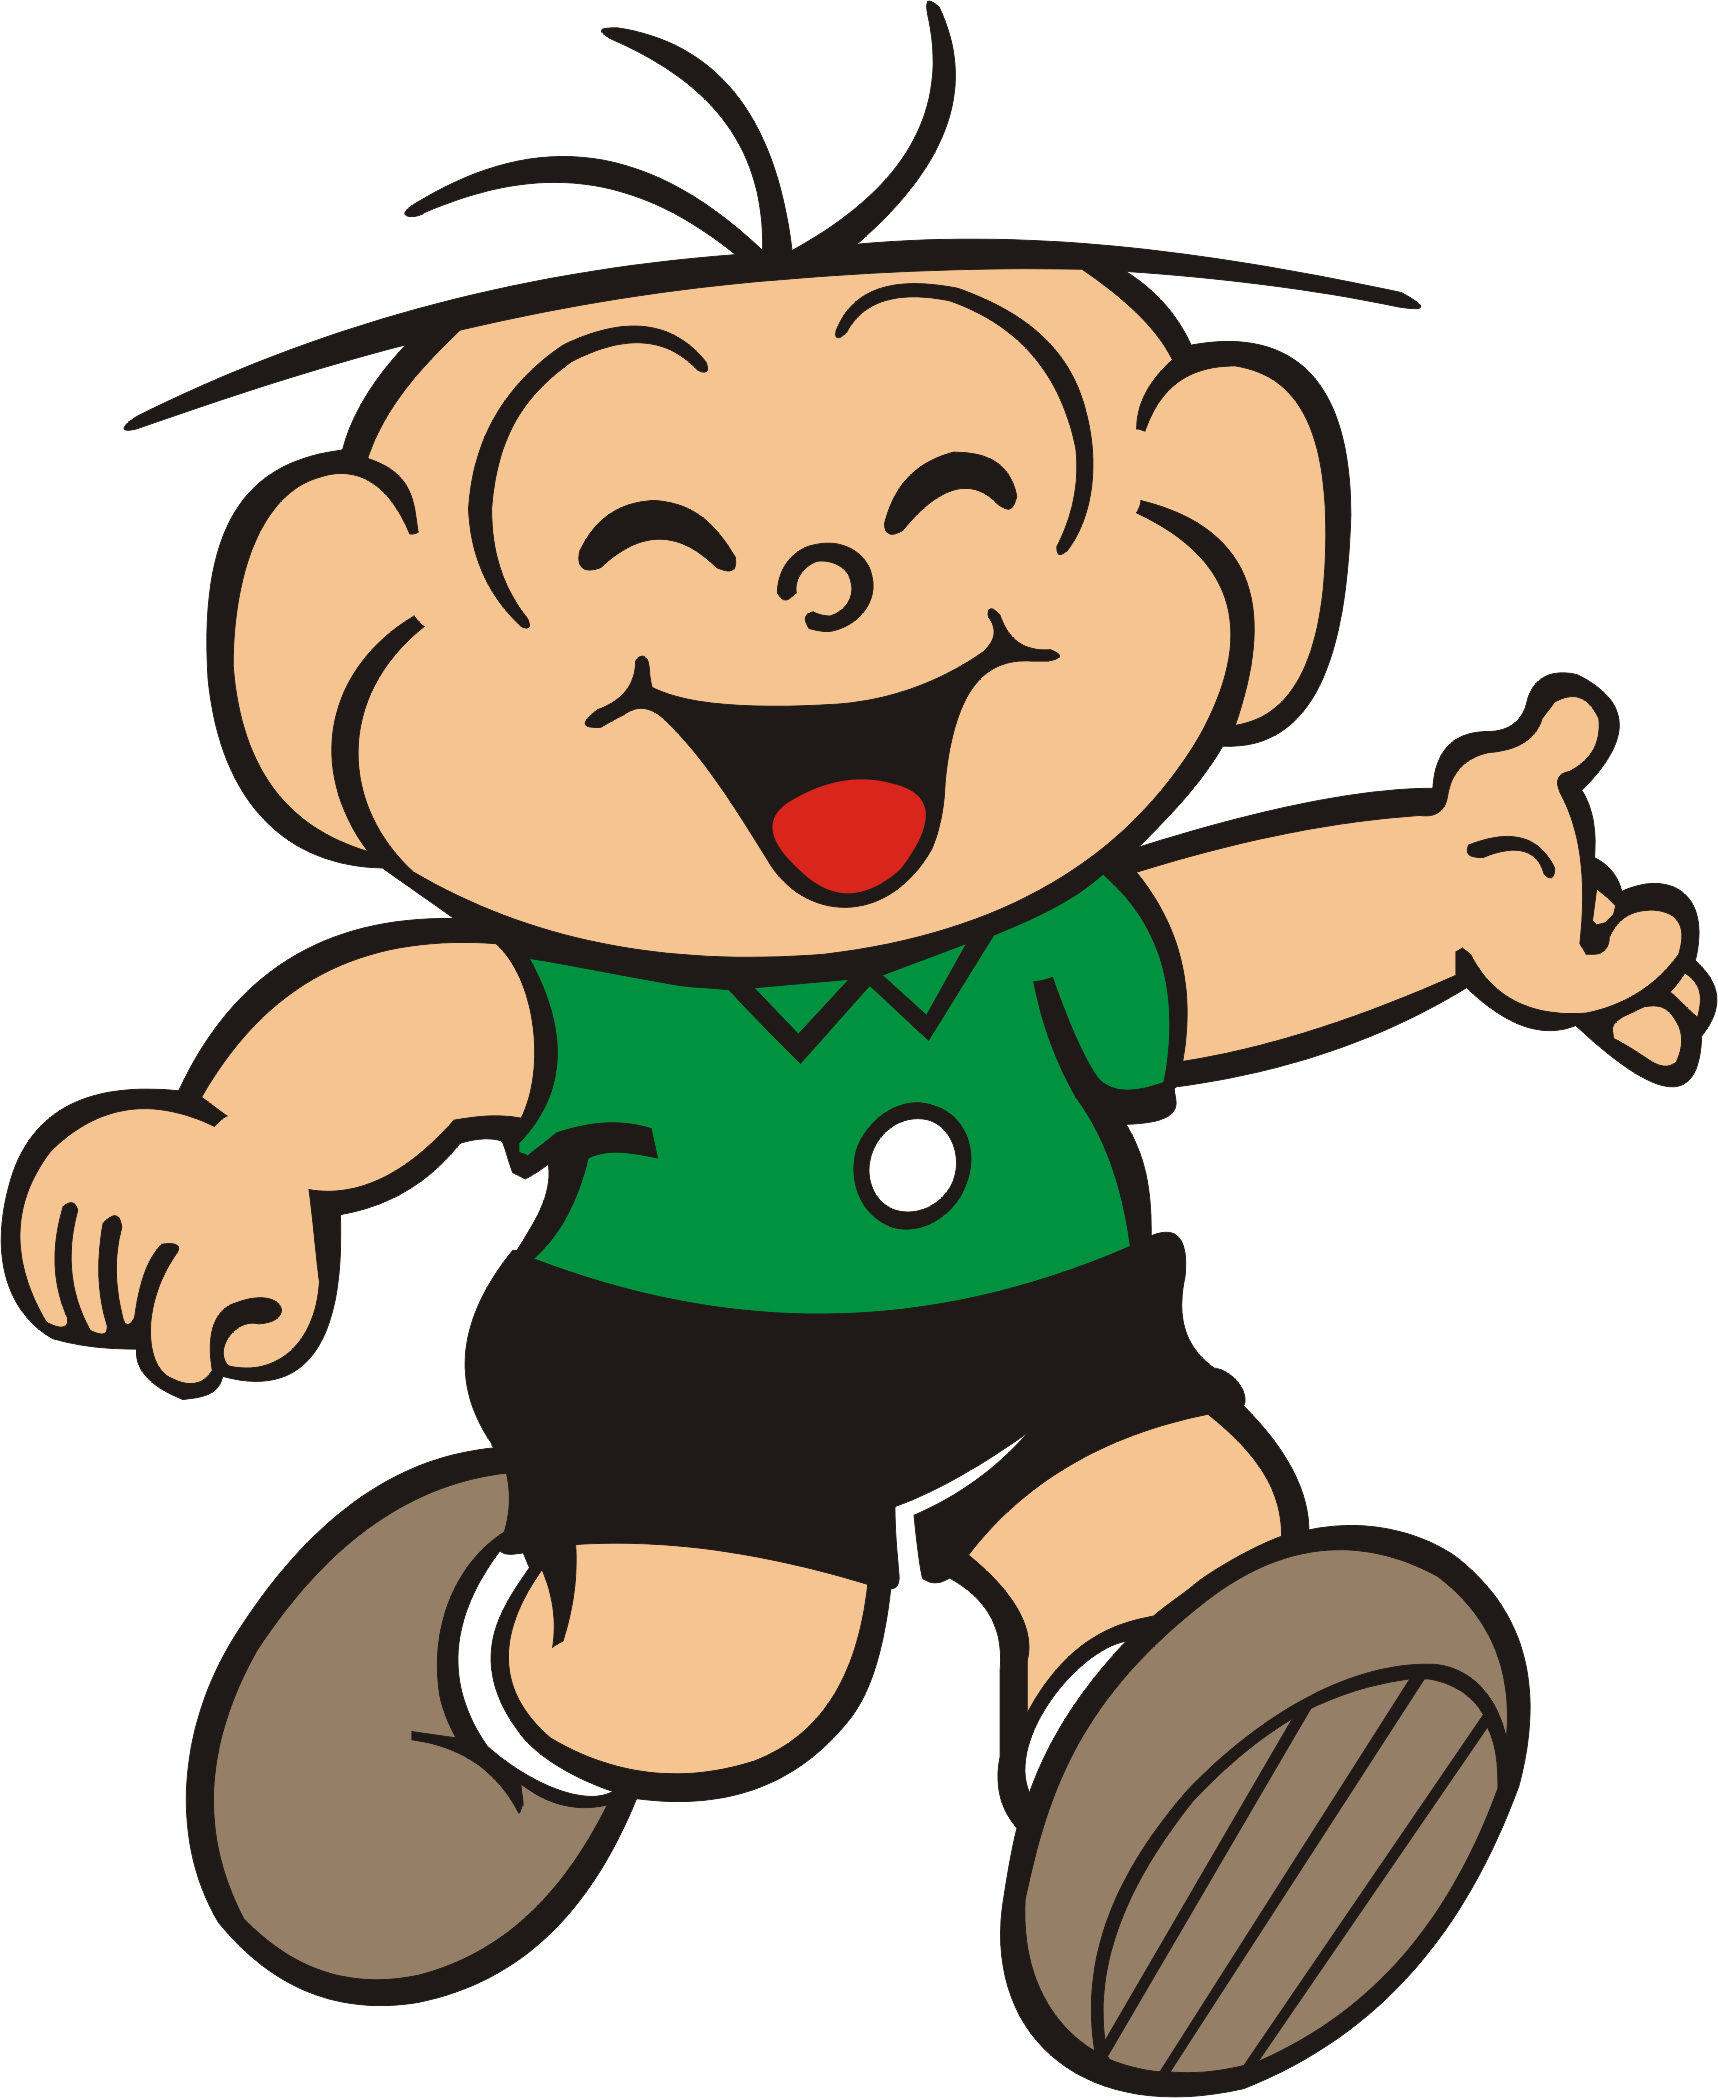
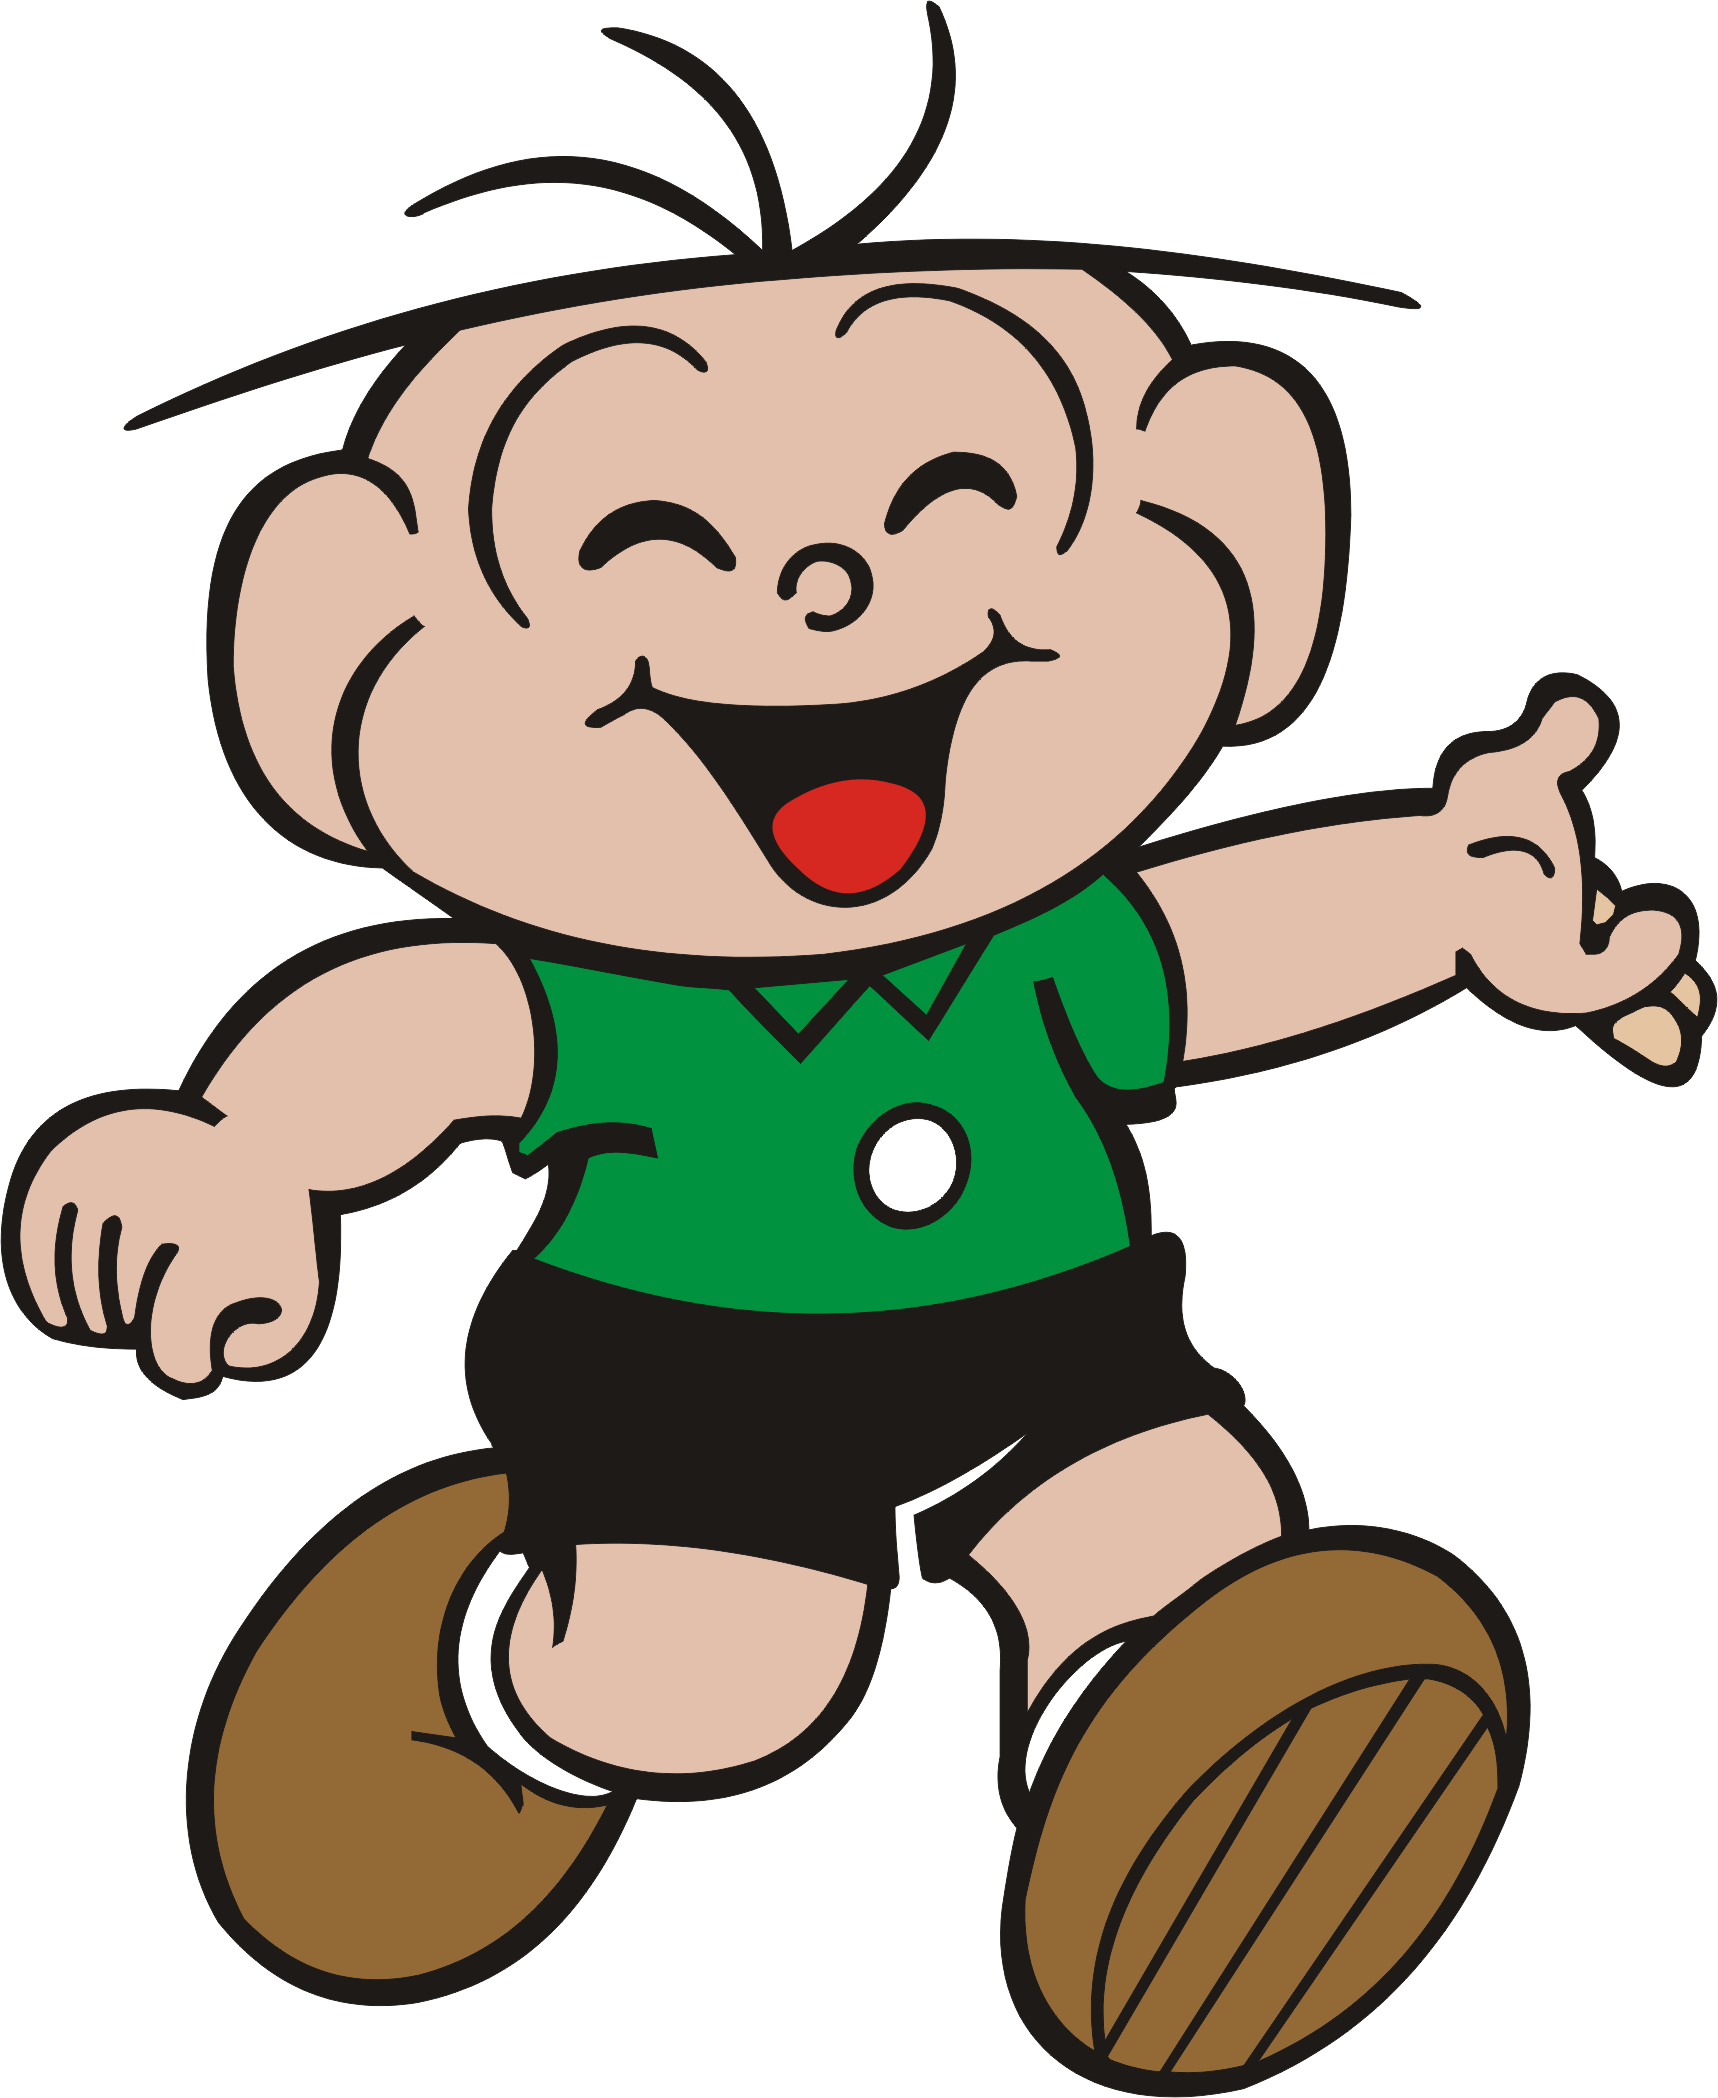
feat: change speech balloon and fix cebolinha color in cebolinha section

Changed region(s): [[0.0, 0.1239, 0.9872, 0.6816], [0.5553, 0.6506, 0.8946, 0.9914], [0.1234, 0.6816, 0.5244, 0.9604]]

diff --git a/scripts/cebolinha-controller.js b/scripts/cebolinha-controller.js
@@ -1,4 +1,5 @@
 const imgCebolinha = document.querySelector('.img-cebolinha').querySelector('img');
+const imgBalloon = document.querySelector('.balloon').querySelector('img');
 const textBalloon = document.querySelector('.text-balloon');
 const text1 = 'Meu nome completo é Cebolácio Júnior Menezes da Silva!';
 const text2 = 'Sou o menino mais inteligente da <b><i>lua</b></i> e do mundo!';
@@ -11,9 +12,29 @@ let nextText = 1;
 imgCebolinha.addEventListener('click', () => {
     textBalloon.innerHTML = allTexts[nextText];
     imgCebolinha.src = `./images/cebolinha-apresentacao${nextText+1}.png`;
+    posicionaTexto(nextText);
+    imgBalloon.src = `../images/balao-normal${nextText+1}.png`;
     console.log(imgCebolinha.scr);
     nextText += 1;
     if(nextText === allTexts.length) {
         nextText = 0;
     }
 });
+
+function posicionaTexto(ntext) {
+    if(ntext === 0) {
+        textBalloon.style.top = '48px';
+        textBalloon.style.marginLeft = '48px';
+    }
+    else if(ntext === 1) {
+        textBalloon.style.top = '48px';
+        textBalloon.style.marginLeft = '60px';
+    } else if(ntext === 2) {
+        textBalloon.style.top = '93px';
+        textBalloon.style.marginLeft = '0px';
+    } else if(ntext === 3) {
+        textBalloon.style.top = '62px';
+        textBalloon.style.marginLeft = '50px';
+        imgBalloon.style.width = '270px';
+    }
+}

diff --git a/index.html b/index.html
@@ -307,7 +307,7 @@
                         <img src="./images/cebolinha-apresentacao1.png" alt="imagem do cebolinha">
                     </figure>
                     <figure class="balloon">
-                        <img src="./images/balao-normal.png" alt="balão de texto">
+                        <img src="./images/balao-normal1.png" alt="balão de texto">
                         <p class="text-balloon">
                             Meu nome completo é Cebolácio Júnior Menezes da Silva!
                         </p>

diff --git a/css/cebolinha.css b/css/cebolinha.css
@@ -29,13 +29,13 @@
 }
 
 .balloon img {
-    width: 250px;
+    width: 270px;
 }
 
 .text-balloon {
     position: absolute;
     text-align: center;
-    top: 36px;
+    top: 48px;
     margin-left: 48px;
     margin-right: 30px;
 }

diff --git a/README.md b/README.md
@@ -2,10 +2,8 @@
 Tradutor para o Cebolês, a língua do personagem Cebolinha da Turma da Mônica. O personagem troca a letra 'r' pela letra 'l'. O que alguns não sabem é que existe uma exceção para essa regra: ele não troca as letras se o 'r' for a última letra da palavra. 
 
 Próximos passos:
-> Tentar fixar em uma única posição o balão de diálogo na última section.
 > Fazer o texto verde em Cebolinha section piscar em dois tons de verde diferentes.
 > Transformar os arrays em challenge-controller.js em um único objeto.
-> Padronizar a cor do Cebolinha na última section.
 > Tentar reduzir o css usando mais as classes.
 > Fazer o botão do copy nos Exemplos descer junto com a barra de rolagem.
 > Fazer formato dos scrolls sumir nas bordas arredondadas.
